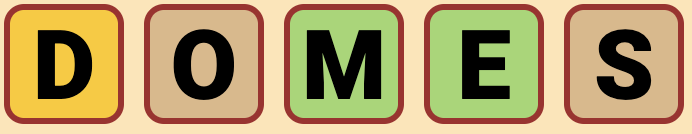
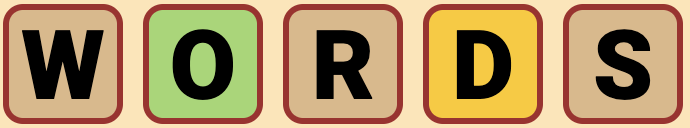
change example word on info popup

diff --git a/assets/js/script.js b/assets/js/script.js
@@ -174,15 +174,15 @@ function addWordToGrid(userguess, row) {
     }
 }
 
-/** compares the guess with teh answer and then colors the letters accordingly
- * in the give row. row numbering starts at 0!
+/** compares the guess with the answer and then colors the letters accordingly
+ * in the given row. row numbering starts at 0!
  */
 function colorLetters(userguess, answer, row) {
     let userguessArray = [];
-    let exactMatches = [];
-    let nonExactMatches = [];
     let answerArray = [];
-
+    let exactMatches = []; //store all element ID's where letters are an exact match
+    let nonExactMatches = []; // store all element ID's where letters are included but wrong posit
+    
     //convert userguess and answer to arrays of 5 letters
     userguessArray = userguess.split('');
     answerArray = answer.split('');
@@ -203,7 +203,7 @@ function colorLetters(userguess, answer, row) {
             answerArray[answerArray.indexOf(userguessArray[x])] = null; // marks as matched
         }
     }
-    //now color the respective letters based on both arrays
+    //now add the respective color class to all applicable letters
     exactMatches.forEach((element) => document.getElementById(element).classList.add("correct-posit"));
     nonExactMatches.forEach((element) => document.getElementById(element).classList.add("correct-letter"));
 }
